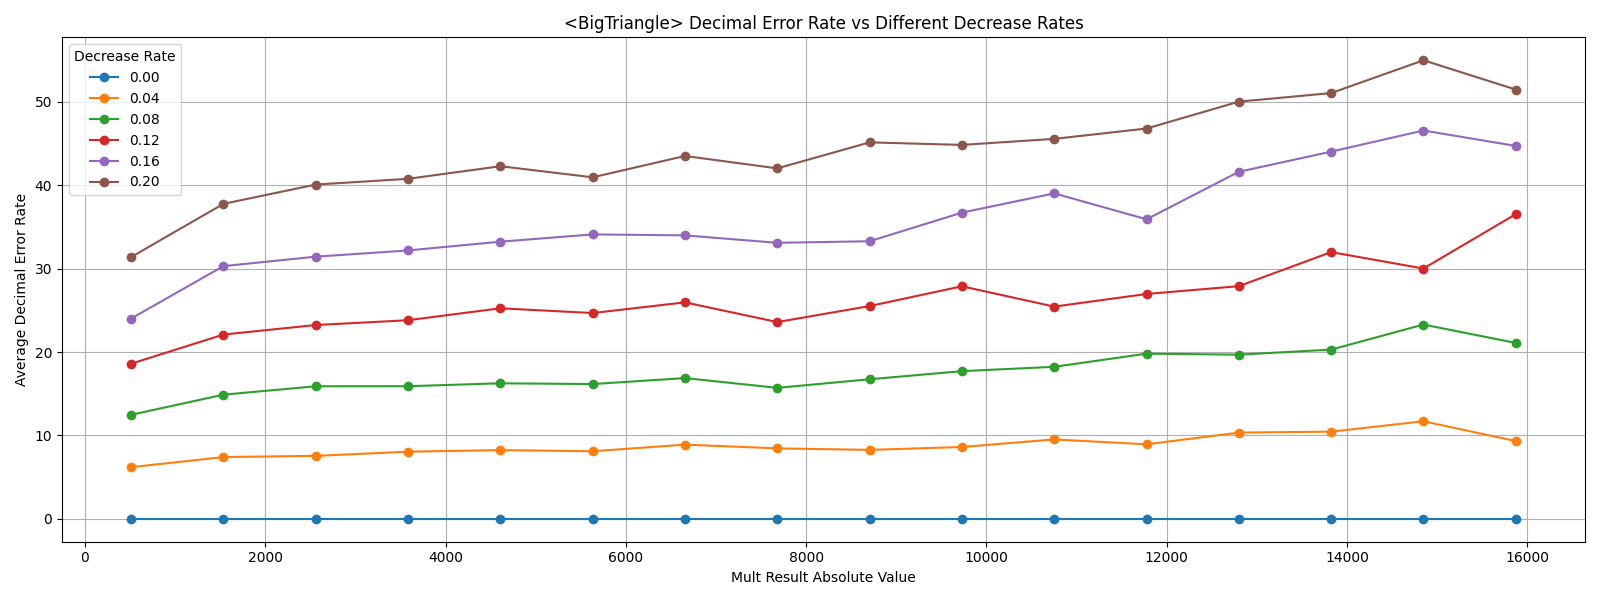
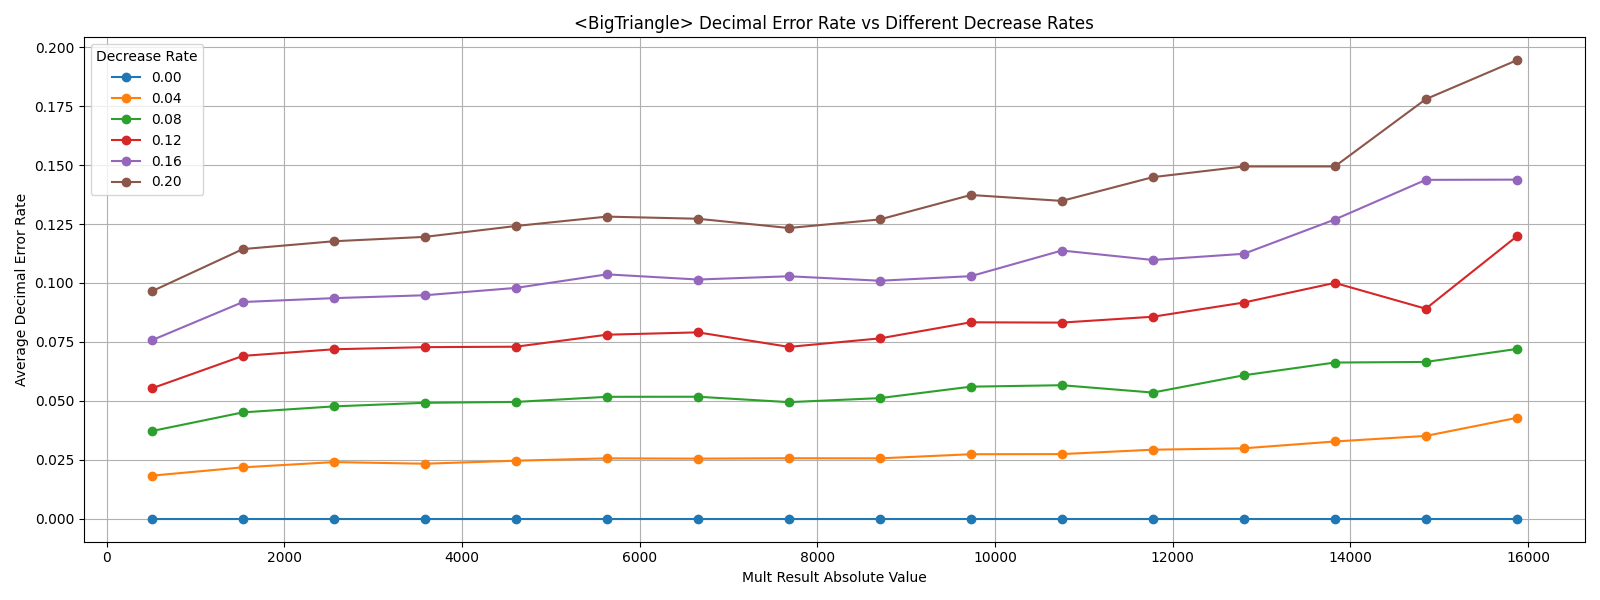
hmm

diff --git a/bitrotation/mp.py b/bitrotation/mp.py
@@ -460,6 +460,35 @@ def add_simple_noise_to_quantized_model(quantized_model, noise_mean=-40, noise_s
     
     return noisy_model, layer_stats
 
+def add_mac_noise_hook_to_quantized_model(model, noise_mean=10, noise_std=5):
+    """
+    在量化模型的每個卷積層的forward輸出加上高斯噪聲（模擬MAC誤差）
+    噪聲分布：mean=10, std=5（以int8尺度），且為-x軸單邊（全為負值）
+    """
+    def mac_noise_hook(module, input, output):
+        if isinstance(output, torch.Tensor):
+            if output.is_quantized:
+                output_fp = output.dequantize()
+                scale = output.q_scale()
+                # 以 int8 尺度產生 noise，再乘以 scale
+                noise = -torch.abs(torch.randn_like(output_fp) * noise_std + noise_mean) * scale
+                noisy_fp = output_fp + noise
+                noisy_q = torch.quantize_per_tensor(
+                    noisy_fp, scale=scale, zero_point=output.q_zero_point(), dtype=output.dtype
+                )
+                return noisy_q
+            else:
+                # 若是 float tensor，直接加 noise
+                noise = -torch.abs(torch.randn_like(output) * noise_std + noise_mean)
+                return output + noise
+        return output
+
+    for module in model.modules():
+        if isinstance(module, torch.nn.quantized.Conv2d) or \
+           isinstance(module, torch.nn.intrinsic.quantized.ConvReLU2d):
+            module.register_forward_hook(mac_noise_hook)
+    return model
+
 
 # ----------------------------
 # 資料處理
@@ -493,8 +522,8 @@ model = ResNet18().to(device)
 optimizer = optim.Adam(model.parameters(), lr=0.001)
 criterion = nn.CrossEntropyLoss()
 
-# 訓練模型（此處僅示範1個epoch）
-for epoch in range(1, 2):
+# 訓練模型（此處僅示範3個epoch）
+for epoch in range(1, 4):
     train(model, device, train_loader, optimizer, criterion, epoch)
     evaluate(model, device, val_loader, label="Validation")
 
@@ -541,15 +570,21 @@ float_model, quantized_model, quantized_weights = simple_static_quantization(
     num_samples=100
 )
 quantized_model = quantized_model.cpu()
-noisy_model, noise_stats = add_simple_noise_to_quantized_model(
-    quantized_model,
-    noise_mean=-6,
-    noise_std=1
-)
-noisy_model = noisy_model.cpu()
-
-print("\n--- Quantized Model Accuracy (Before Noise) ---")
+print("--- Quantized Model Accuracy ---")
 evaluate(quantized_model, torch.device("cpu"), test_loader, label="Quantized Model (No Noise)")
 
-print("\n--- Quantized Model Accuracy (After Noise) ---")
-evaluate(noisy_model, torch.device("cpu"), test_loader, label="Quantized Model (With Noise)")
+# noisy_model, noise_stats = add_simple_noise_to_quantized_model(
+#     quantized_model,
+#     noise_mean=-6,
+#     noise_std=1
+# )
+# noisy_model = noisy_model.cpu()
+print("--- Converting to quantized model ---")
+
+quantized_model_with_mac_noise = copy.deepcopy(quantized_model)
+quantized_model_with_mac_noise = add_mac_noise_hook_to_quantized_model(
+    quantized_model_with_mac_noise, noise_mean=5, noise_std=1
+)
+
+print("\n--- Quantized Model Accuracy (With Noise) ---")
+evaluate(quantized_model_with_mac_noise, torch.device("cpu"), test_loader, label="Quantized Model (With Noise)")

diff --git a/bitrotation/cal_mul.py b/bitrotation/cal_mul.py
@@ -99,9 +99,9 @@ def simulate_and_collect(decrease_rate, iteration=10000, Analogtype=""):
                 bit_error_list[i] += 1
 
         if mult_result != 0:
-            error_rate = abs(mult_result - noisy_mult_result)
+            error_rate = abs(mult_result - noisy_mult_result) / (2 ** 15) * 100
         elif noisy_mult_result != 0:
-            error_rate = abs(mult_result - noisy_mult_result) 
+            error_rate = abs(mult_result - noisy_mult_result) / (2 ** 15) * 100
         else:
             error_rate = 0
 
